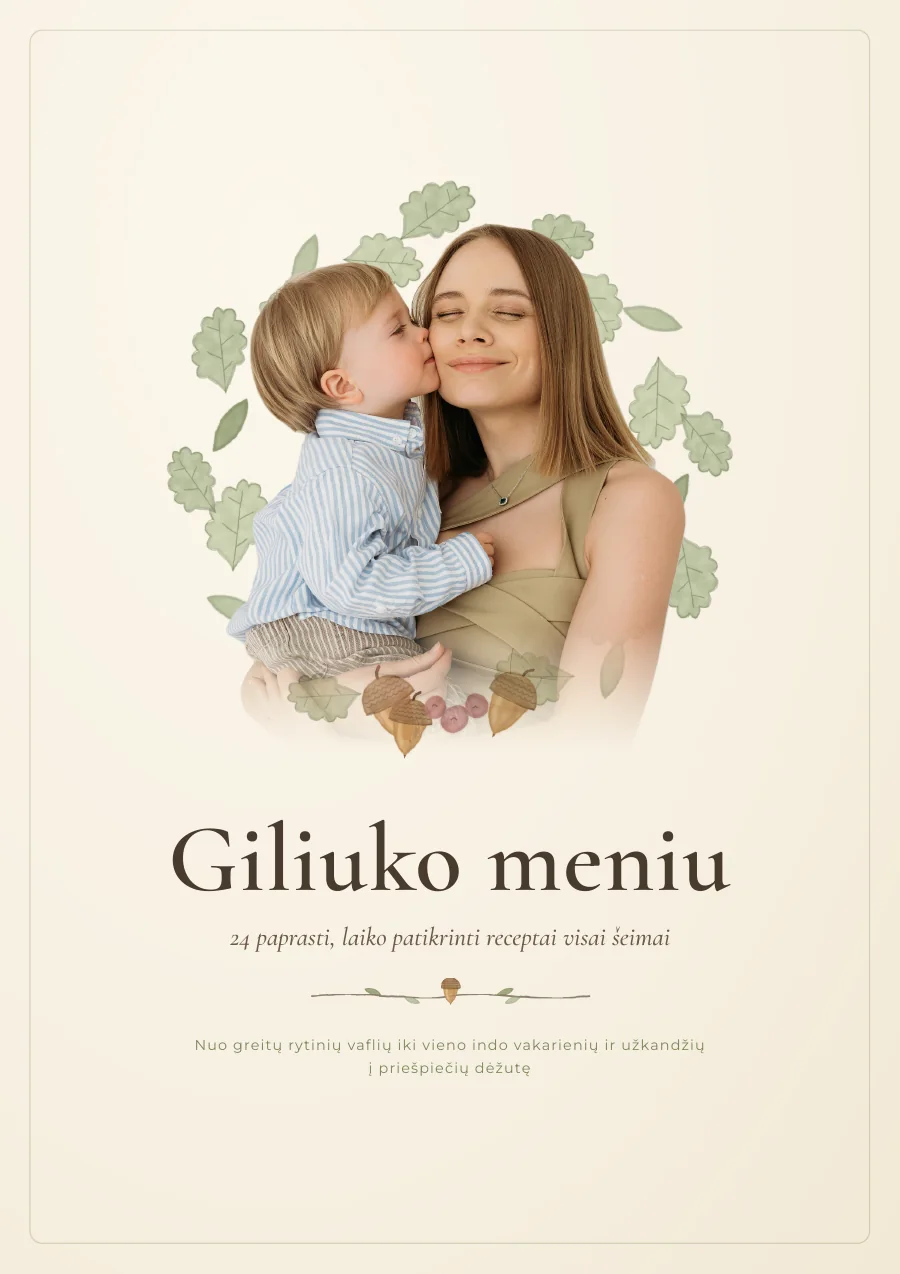
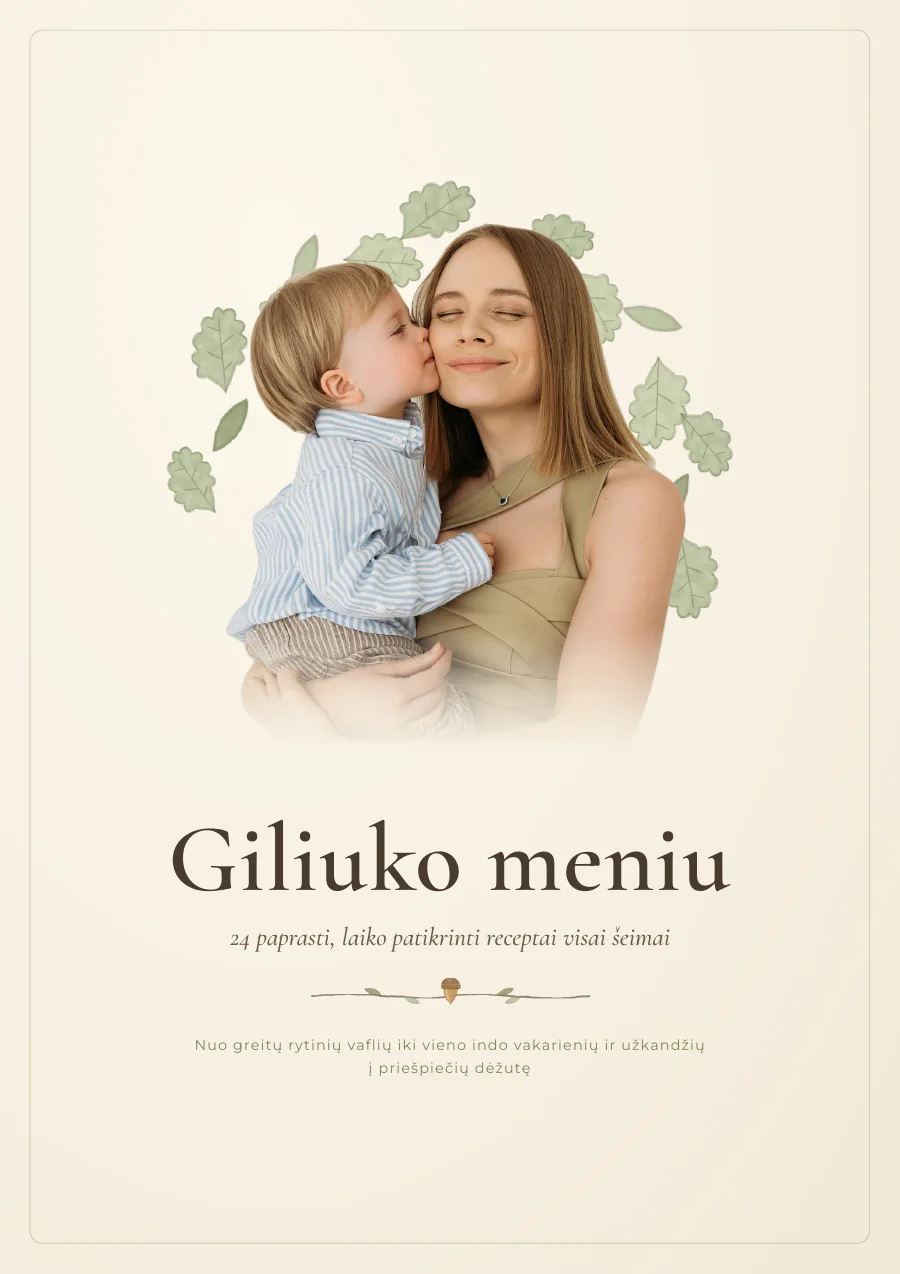
Photo wreath: no acorns, berries or leaves under the faded photo
Adds an open wreath variant (leaves only, gap at the bottom) used behind
the author's photo on the cover, letter page and website letter section.

Claude-Session: https://claude.ai/code/session_01SejoyQn7LamZjRp1cFmsnZ

Changed region(s): [[0.3111, 0.5204, 0.6844, 0.6122], [0.2178, 0.3673, 0.3111, 0.4898]]

diff --git a/public/index.html b/public/index.html
@@ -86,7 +86,7 @@
 
     <!-- from the author -->
     <section class="section letter">
-      <div class="letter__photo"><img class="letter__wreath" src="/img/wreath.webp" alt="" width="900" height="900" loading="lazy"><img class="letter__family" src="/img/family.webp" alt="„Giliuko meniu“ kūrėja su sūnumi Ąžuoliuku" width="700" height="764" loading="lazy"></div>
+      <div class="letter__photo"><img class="letter__wreath" src="/img/wreathOpen.webp" alt="" width="900" height="900" loading="lazy"><img class="letter__family" src="/img/family.webp" alt="„Giliuko meniu“ kūrėja su sūnumi Ąžuoliuku" width="700" height="764" loading="lazy"></div>
       <h2>Mielos mamos,</h2>
       <p>Šie receptai gimė ne iš profesionalios virtuvės knygų, o iš kasdienio gyvenimo – gaminant savo pirmagimiam Ąžuoliukui nuo pat primaitinimo pradžios ir dabar, laukiant antrojo stebuklo.</p>
       <p>Mums nereikia gaminti atskirai – galime sukurti vieną puikų, maistingą patiekalą visai šeimai, pritaikant jį ir pačių mažiausių skoniui.</p>
